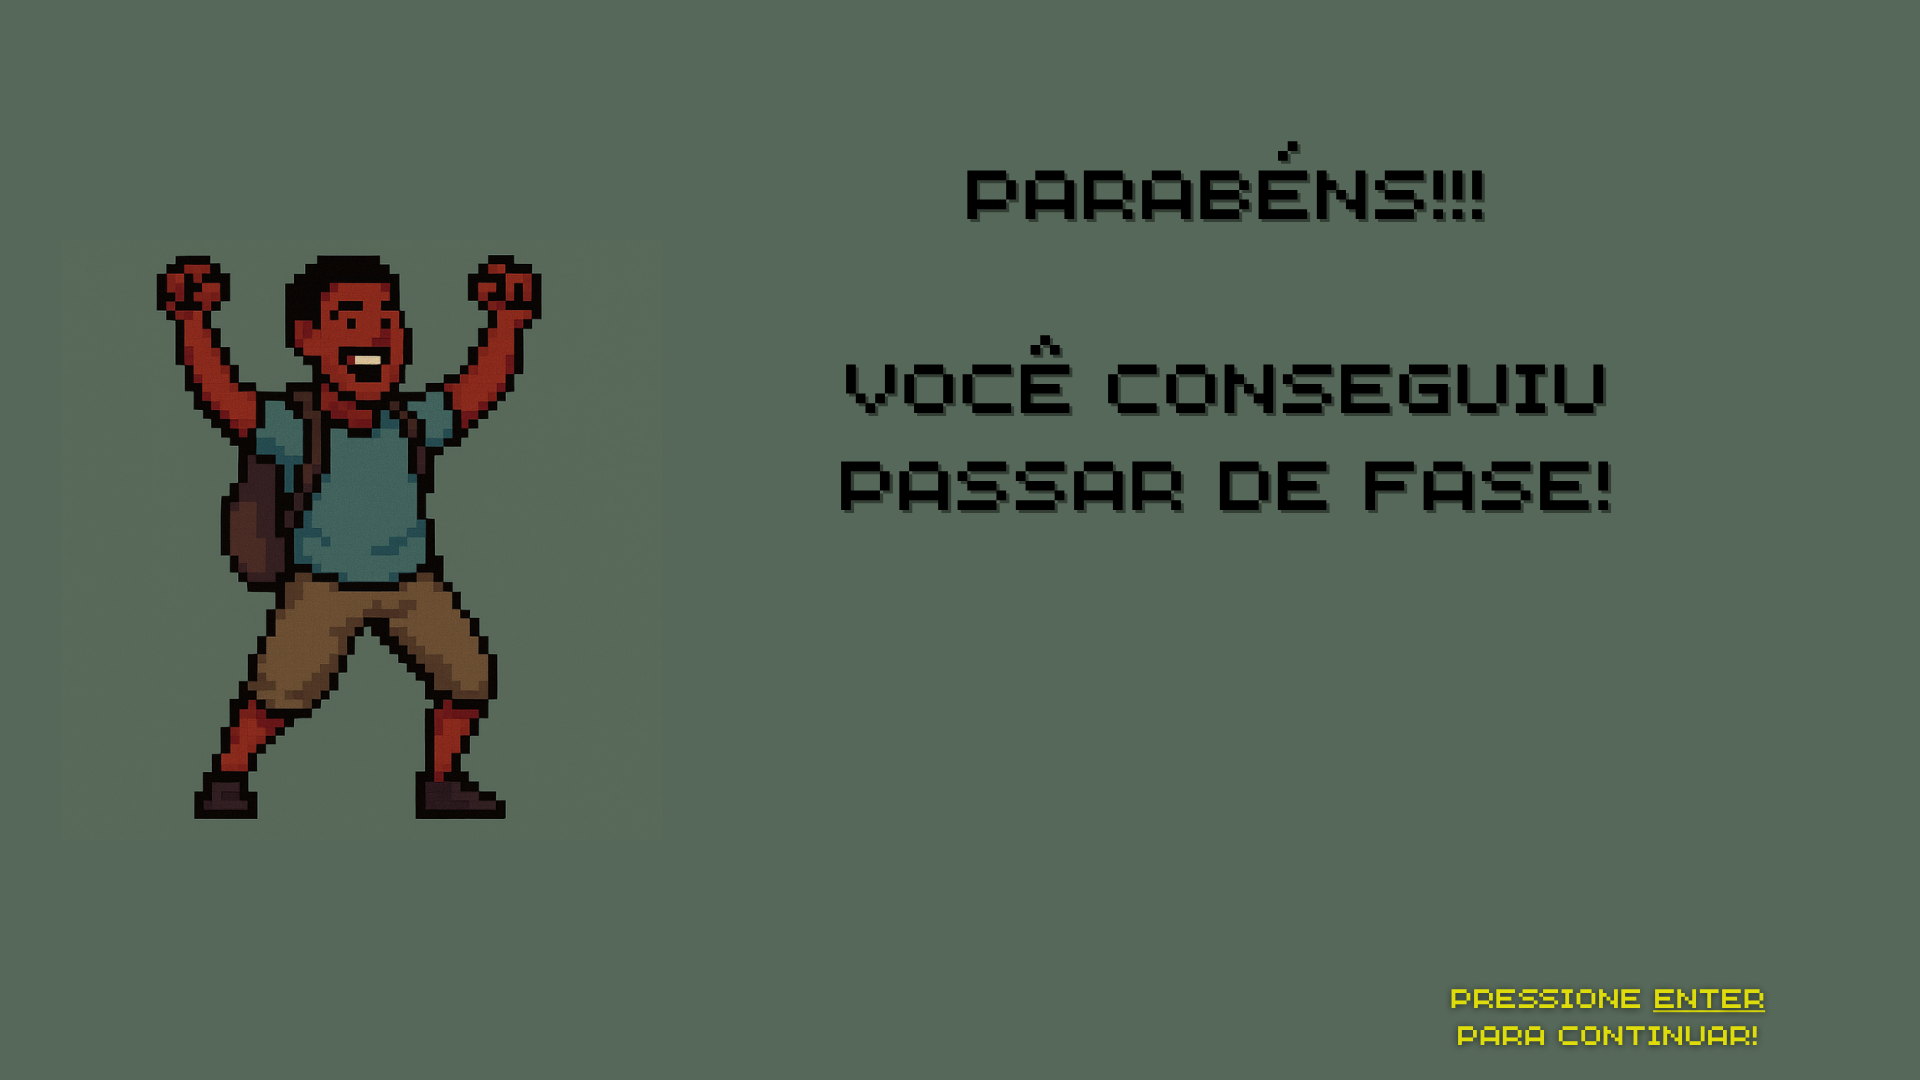
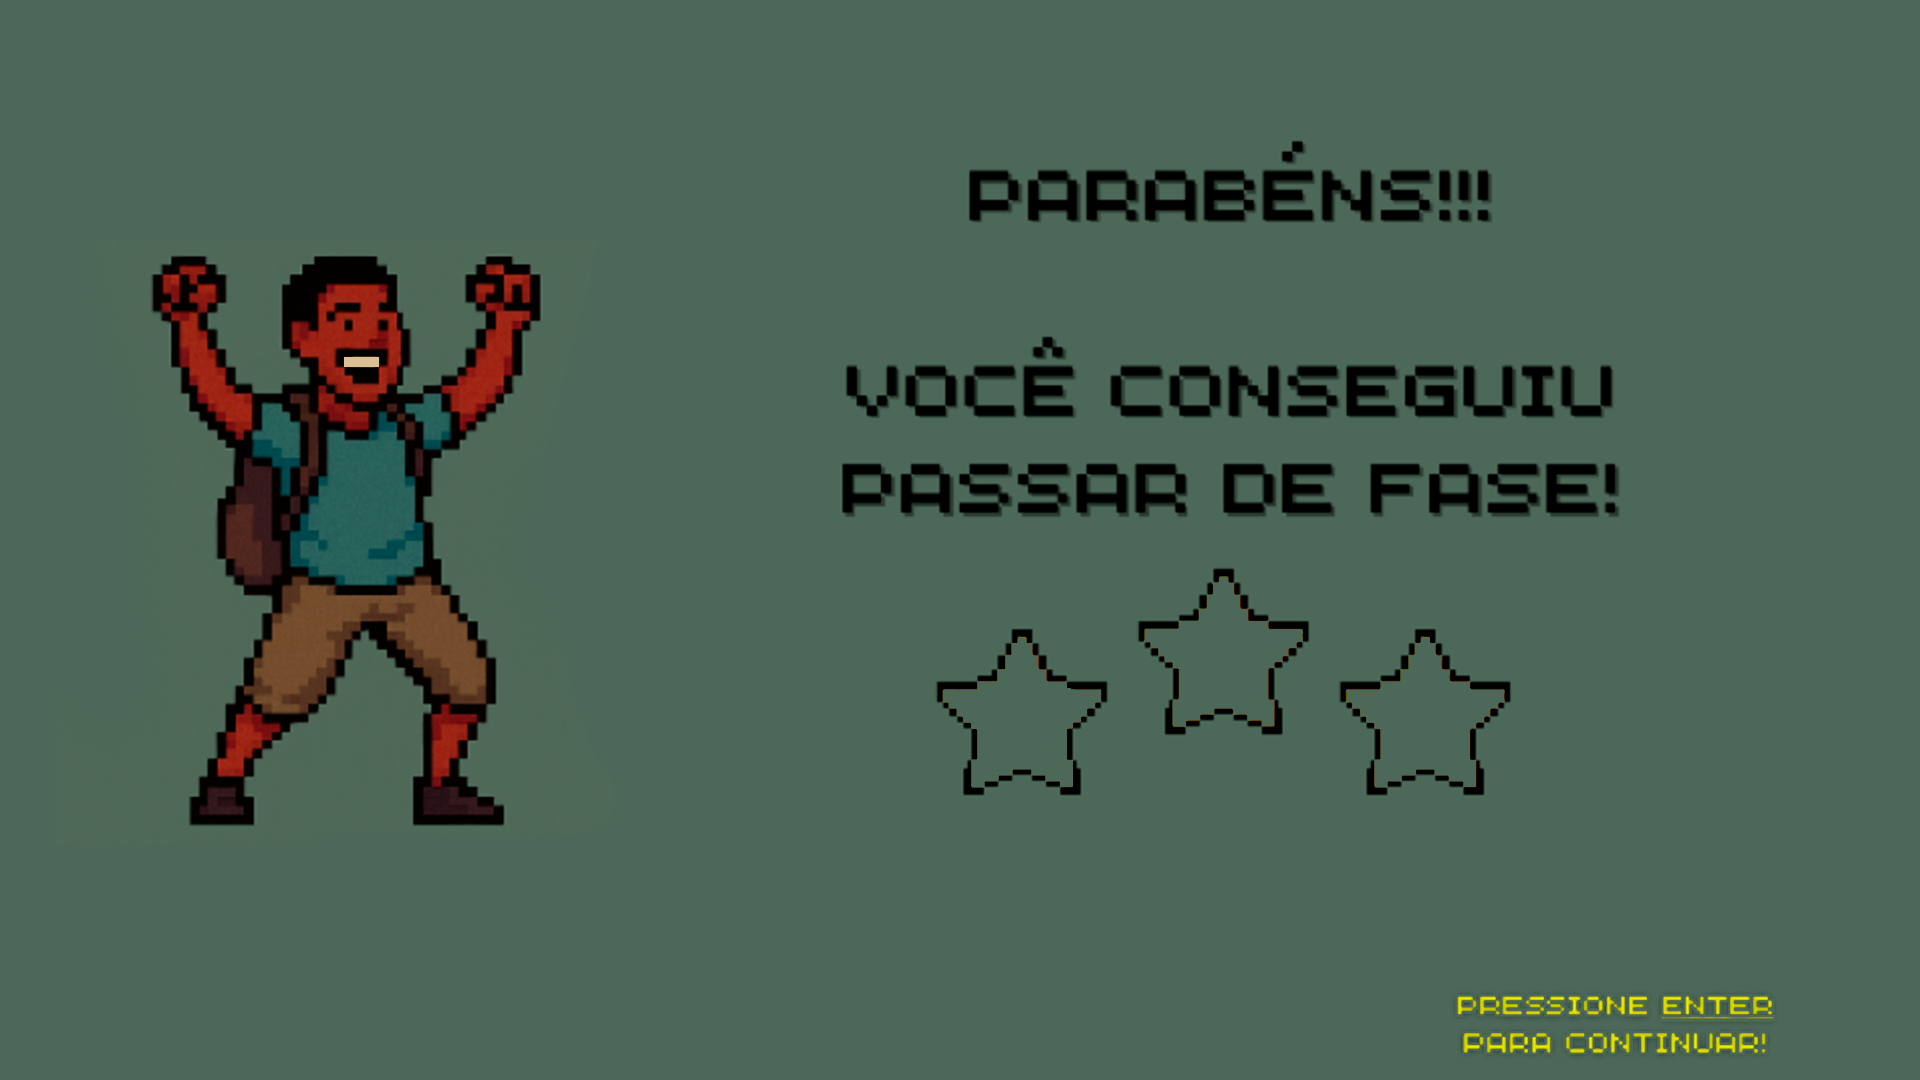
Added the logic for the stars

diff --git a/game.py b/game.py
@@ -305,8 +305,11 @@ class Game():
     
     
     def mudarfase(self):
-        if len(self.trash.rects) != 0 and self.treecounter < self.points_to_plant_tree:
-                self.times.append([self.mapa,self.time_of_map])
+        if len(self.trash.rects) == 0 and self.treecounter < self.points_to_plant_tree:
+                try:
+                    self.times[self.mapa] = self.time_of_map
+                except IndexError:
+                    self.times.append(self.time_of_map)
                 self.time_of_map = 0
                 self.mapa += 1
                 
@@ -315,8 +318,8 @@ class Game():
                 tela_fim = pygame.image.load(r'assets\tela_fim.png').convert()
                 tela_fim = pygame.transform.scale(tela_fim,(self.DISPLAY_W, self.DISPLAY_H))
                 #Stars
-                STAR_X = 610
-                STAR_Y = 354
+                STAR_X = 613
+                STAR_Y = 356
                 STAR_DISTANCE = 100
                 star_icon = pygame.image.load(r'assets\pixelated_star.png').convert_alpha()
                 star_vector = [star_icon,0]
@@ -342,7 +345,7 @@ class Game():
                 self.display.blit(star_list[0][0],(star_coord))
                 
             
-            
+            #Third star
             if star_list[2][1] < 1 and star_list[0][1] == 1:
                 star_list[2][1] = min(1,star_list[2][1] + ANIMATION_SPEED)
                 star_list[2][0] = pygame.transform.scale_by(star_icon,star_list[2][1])
@@ -351,8 +354,18 @@ class Game():
                 self.display.blit(star_list[0][0],(star_coord))
                 
                 star2_coord = STAR_X - star_list[2][0].get_width()/2 + STAR_DISTANCE,STAR_Y - star_list[2][0].get_height()/2
+                
                 #Blit the current star
-                self.display.blit(star_list[2][0],(star2_coord))
+                match self.mapa:
+                    case 1:
+                        if self.times[0] < 20000:
+                            self.display.blit(star_list[2][0],(star2_coord))
+                    case 2:
+                        if self.times[0] < 18000:
+                            self.display.blit(star_list[2][0],(star2_coord))
+                    case 3:
+                        if self.times[0] < 23000:
+                            self.display.blit(star_list[2][0],(star2_coord))
                 
             
             if star_list[2][1] == 1 and star_list[0][1] == 1:
@@ -361,14 +374,35 @@ class Game():
                 
                 #Blit the first star
                 self.display.blit(star_list[0][0],(star_coord))
-                self.display.blit(star_list[2][0],(STAR_X - star_list[2][0].get_width()/2 + STAR_DISTANCE,STAR_Y - star_list[2][0].get_height()/2))
-                
+                                
+                                
+                #Blit the second star:
+                match self.mapa:
+                    case 1:
+                        if self.times[0] < 20000:
+                            self.display.blit(star_list[2][0],(STAR_X - star_list[2][0].get_width()/2 + STAR_DISTANCE,STAR_Y - star_list[2][0].get_height()/2))
+                    case 2:
+                        if self.times[0] < 18000:
+                            self.display.blit(star_list[2][0],(STAR_X - star_list[2][0].get_width()/2 + STAR_DISTANCE,STAR_Y - star_list[2][0].get_height()/2))
+                    case 3:
+                        if self.times[0] < 23000:
+                            self.display.blit(star_list[2][0],(STAR_X - star_list[2][0].get_width()/2 + STAR_DISTANCE,STAR_Y - star_list[2][0].get_height()/2))
                 star3_coord = STAR_X - star_list[1][0].get_width()/2,STAR_Y - star_list[1][0].get_height()/2 - 30
                 
-                #Blit the current star
-                self.display.blit(star_list[1][0],(star3_coord))
+                #Blit only the two stars
+                print(self.mapa)
+                match self.mapa:
+                    case 1:
+                        if self.times[0] < 17000:
+                            self.display.blit(star_list[1][0],(star3_coord))
+                    case 2:
+                        if self.times[0] < 15000:
+                            self.display.blit(star_list[1][0],(star3_coord))
+                    case 3:
+                        if self.times[0] < 20000:
+                            self.display.blit(star_list[1][0],(star3_coord))
                 
-                
+            
             pygame.display.update()
                 
             self.window.blit(self.display, (0,0))
